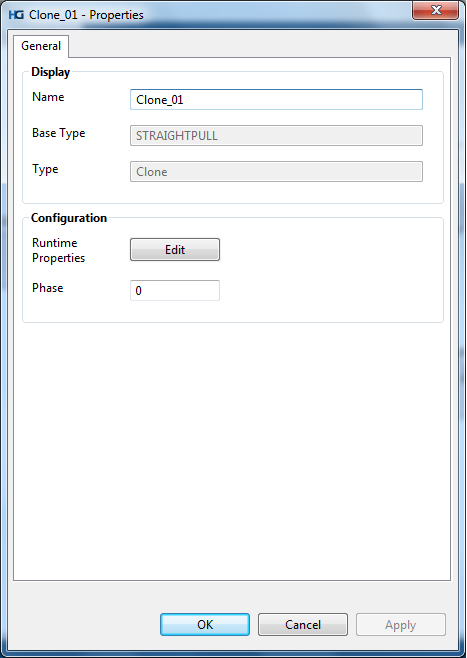
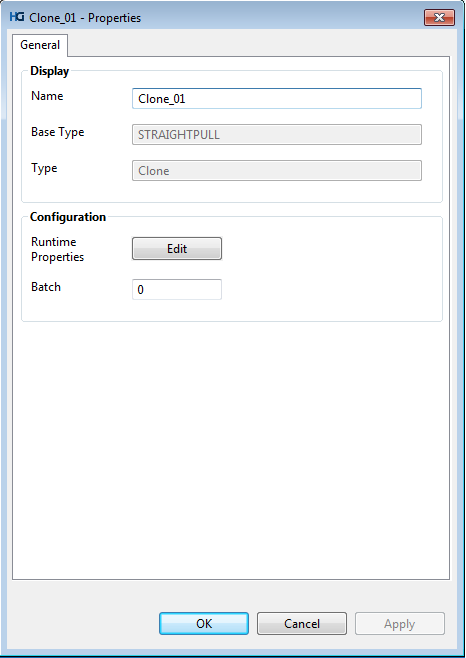
Updated Clone component for Help content

diff --git a/hydrograph.ui/hydrograph.ui.help/html/Components/Clone_Properties.html b/hydrograph.ui/hydrograph.ui.help/html/Components/Clone_Properties.html
@@ -58,13 +58,15 @@
 	</p>
 
 	<ul>
-		<li><span><b>Runtime Properties</b> -&nbsp;Runtime
-				properties are used to override the Hadoop configurations specific
-				to Clone component at run time. User is required to enter the
-				Property Name and Value in the runtime properties grid.</span></li>
-		<p class="center">
-			<img alt="" src="../images/Runtime_Properties_Grid.png" />
-		</p>
+		<li><p>
+				<span><b>Runtime Properties</b> -&nbsp;Runtime properties are
+					used to override the Hadoop configurations specific to Clone
+					component at run time. User is required to enter the Property Name
+					and Value in the runtime properties grid.</span>
+			</p>
+			<p class="center">
+				<img alt="" src="../images/Runtime_Properties_Grid.png" />
+			</p></li>
 		<li><span><b>Batch</b> - Batch simply accepts a numeric
 				number starting from 0 to 99 and signifies the phase this component
 				will execute in. By default this is 0.</span></li>
@@ -77,17 +79,18 @@
 	<ul>
 		<li><p>
 				<span>The properties window also displays error icon on
-					mandatory fields if it has an incorrect value. The error icon is
-					displayed on the tab as well, if any of the field within the tab
-					has some error.</span>
-			</p> <img src="" alt="" /></li>
+					mandatory fields if it has an incorrect value.</span>
+			</p>
+			<p class="center">
+				<img src="../images/Clone_properties_Name_Validation.png" alt="" /></li>
 
-		<li><span><b>Batch </b> -Batch has a default value of 0.
-				However, blank text box results in error validation and is not
-				allowed.
-				<p class="center">
-					<img alt="" src="" />
-				</p> </span></li>
+		<li><p>
+				<span><b>Batch </b> -Batch has a default value of 0. However,
+					blank text box results in error validation and is not allowed.</span>
+			</p>
+			<p class="center">
+				<img alt="" src="../images/Clone_properties_Batch_Validation.png" />
+			</p></li>
 	</ul>
 
 </body>
